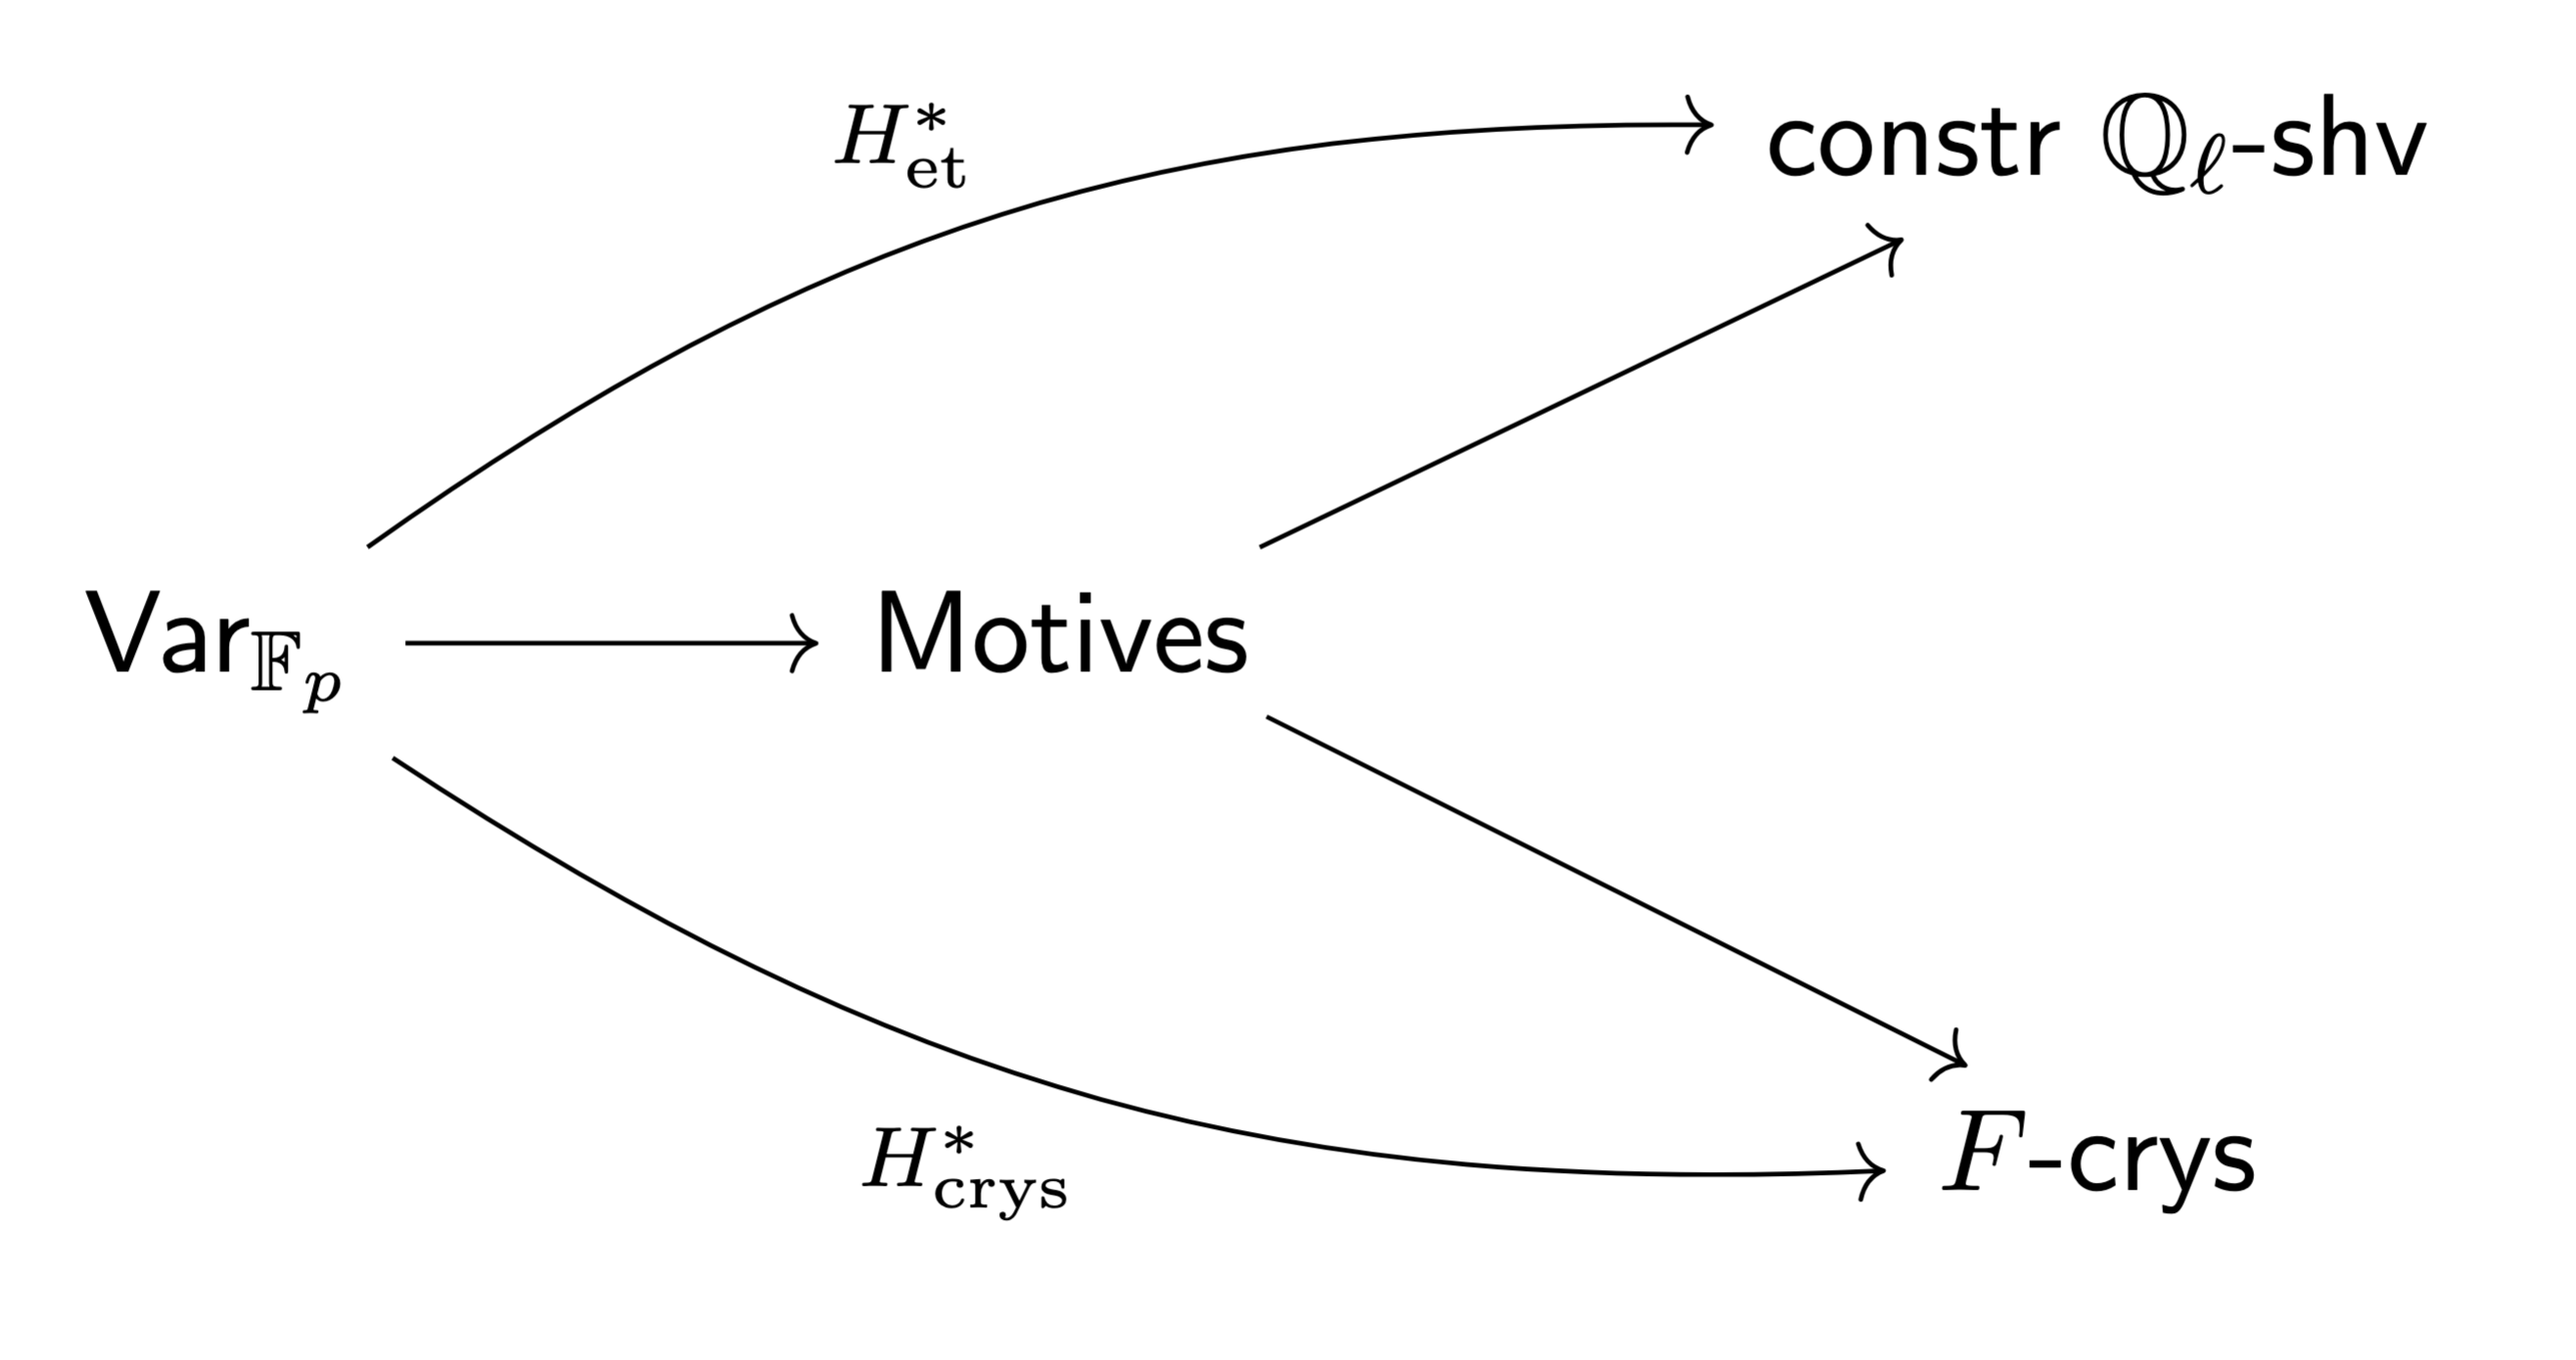
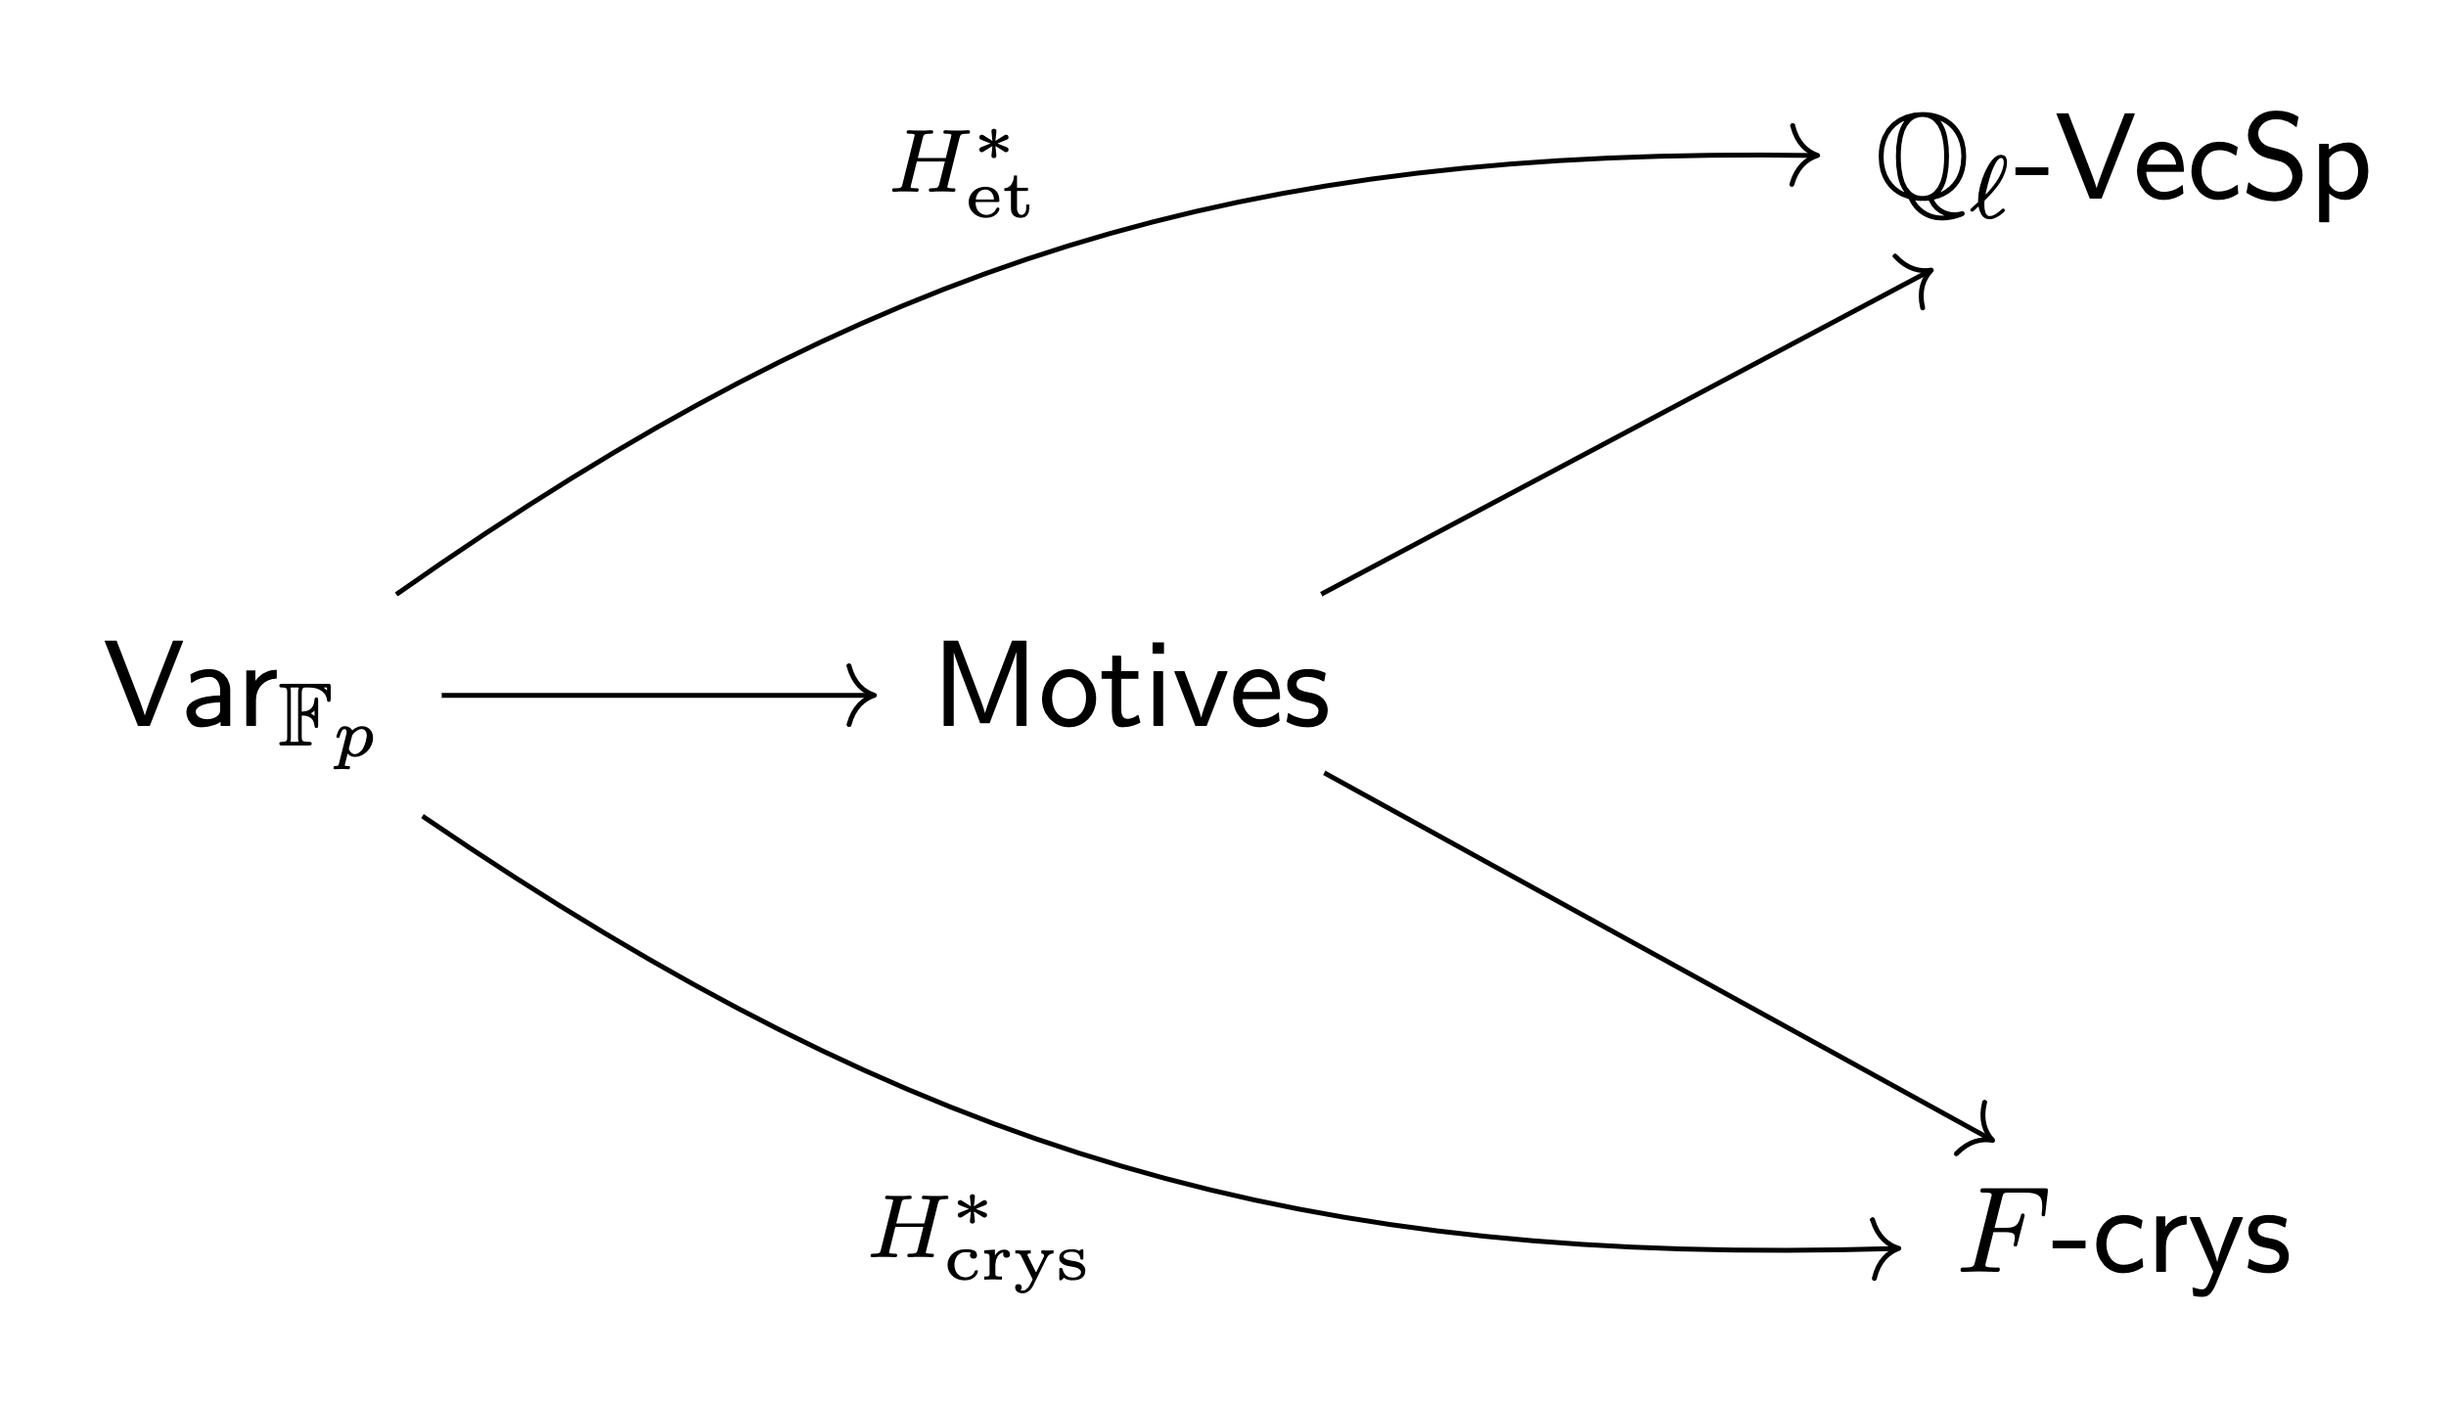
Fix typo and update research blurb with tweaks

diff --git a/research/mathematicians.md b/research/mathematicians.md
@@ -28,7 +28,7 @@ nice properties. However, there are no-go theorems (for example, the one due to 
 cohomology theory cannot exist. There are various setting one can work in, but perhaps the most
 famous is characteristic $p$ algebraic geometry, for $p$ a fixed prime number.
 Here, we have $\ell$-adic cohomology (for $\ell$ a prime different than $p$) and various
-flavors of $p$-adic cohomology (rigid, crystalline, etc.), Serre's and no-go theorem saying that they can't
+flavors of $p$-adic cohomology (rigid, crystalline, and so on), and Serre's no-go theorem saying that they can't
 come from some cohomology theory over $\mathbb{Q}$.
 
 
@@ -41,8 +41,8 @@ nice cohomology functor $H^*$ to factor through a functor $M$ from geometric spa
 @@
 
 Now, making a definition that \*should\* coincide with the correct category of motives isn't
-completely impossible, and Grothendieck even did this with his category of *pure motives*. However,
-the definition of pure motives is really abstract, and it's quite hard to prove things with it.
+completely impossible. Grothendieck even did this for "nice" spaces with his category of *pure motives*. 
+However, the definition of pure motives is really abstract, and it's quite hard to prove things with it.
 What's missing is a *combinatorics* for this category, i.e. a concrete way to work tangibly with the
 objects and morphisms in the category. 
 
@@ -61,14 +61,19 @@ definition and try to prove that the information it contains is already enough f
 
 There are many research topics in algebraic geometry that are some variant of this philosophy: we
 define some notion which should be related to motives. Usually it's a numerical invariant that
-should be deducible from knowledge of the motive, or it's a linear category that should recieve
-a functor from the category of motives. This includes, but is not limited to \*deep breath\* motivic
-homotopy theory, motivic cohomology, $K$-theory, Chow motives, Chow rings, Algebraic cycles, Hodge
-structures, mixed Hodge modules, log canonical thresholds, Bernstien-Sato polynomials, domino numbers, Gromov-Witten
+should be deducible from knowledge of the motive, perhaps a linear category that should recieve
+a functor from the category of motives, or even a definition that should recover the correct
+notion of motives if we had a combinatorics for it. 
+This includes, but is not limited to \*deep breath\* motivic
+homotopy theory, motivic cohomology, $K$-theory, 
+Chow motives, pure motives, mixed motives, mixed Tate motives, Chow rings, algebraic cycles, Hodge
+structures, mixed Hodge modules, log canonical thresholds, 
+Bernstien-Sato polynomials, domino numbers, Gromov-Witten
 invariants, Hodge atoms, $F$-crystals, constructible sheaves, $F$-gauges, prismatic $F$-gauges,
 prismatic $F$-crystals, $F$-pure thresholds, quasi-$F$-pure thresholds, Dieudonné modules,
-$p$-divisible groups, Tate modules, Newton polygons, Ekedahl-Oort types, $p$-ranks, $a$-numbers, Galois representations,
-modules with integrable connection, etc. With this broad interpretation, one can say that perhaps
+$p$-divisible groups, Tate modules, Newton polygons, Ekedahl-Oort types, $p$-ranks, $a$-numbers, Sato-Tate groups, motivic Galois groups, Galois representations,
+modules with integrable connection, and so on and so forth. 
+With this broad interpretation, one can say that perhaps
 a majority of algebraic geometers are studying motives! 
 
 My interest in motives is in exploring this combinatorics: considering various notions like the ones
@@ -97,7 +102,8 @@ invariants. For example
 * [arXiv:2509.06211](https://arxiv.org/abs/2509.06211) shows that there exists a relationship between
   two downstream invariants (the "quasi-$F$-split height" and the "$F$-pure threshold"). The previous
   proof uses cohomology heavy machinery, but our proof is "close to the ground", very short, and more
-  general. Is this evidence of something deeper going on at the cohomology level? It's unclear, but
+  general. Is this evidence of something deeper going on at the cohomology level? 
+  Is it an artifact of the setup we have? It's unclear, but
   I'd be really interested to find out. 
 * [arXiv:2602.24155](https://arxiv.org/abs/2602.24155) gives improved
   algorithms, data structures, and implementations for calculating the $F$-crystal structure on crystalline cohomology. It includes faster versions of cases where implementations did exist before, and also cases where computations did not exist before. 

diff --git a/research/index.md b/research/index.md
@@ -16,7 +16,7 @@ I've written a slightly longer description of my research for various audiences:
 @@card
 Newton strata realization for hypersurfaces via explicit $p$-adic cohomology
 (with R. Batubara, Y. Huang, and M. Mellberg),
-[arXiv:2602.24155](https://arxiv.org/abs/2511.00753)
+[arXiv:2602.24155](https://arxiv.org/abs/2602.24155)
 @@
 
 @@card
